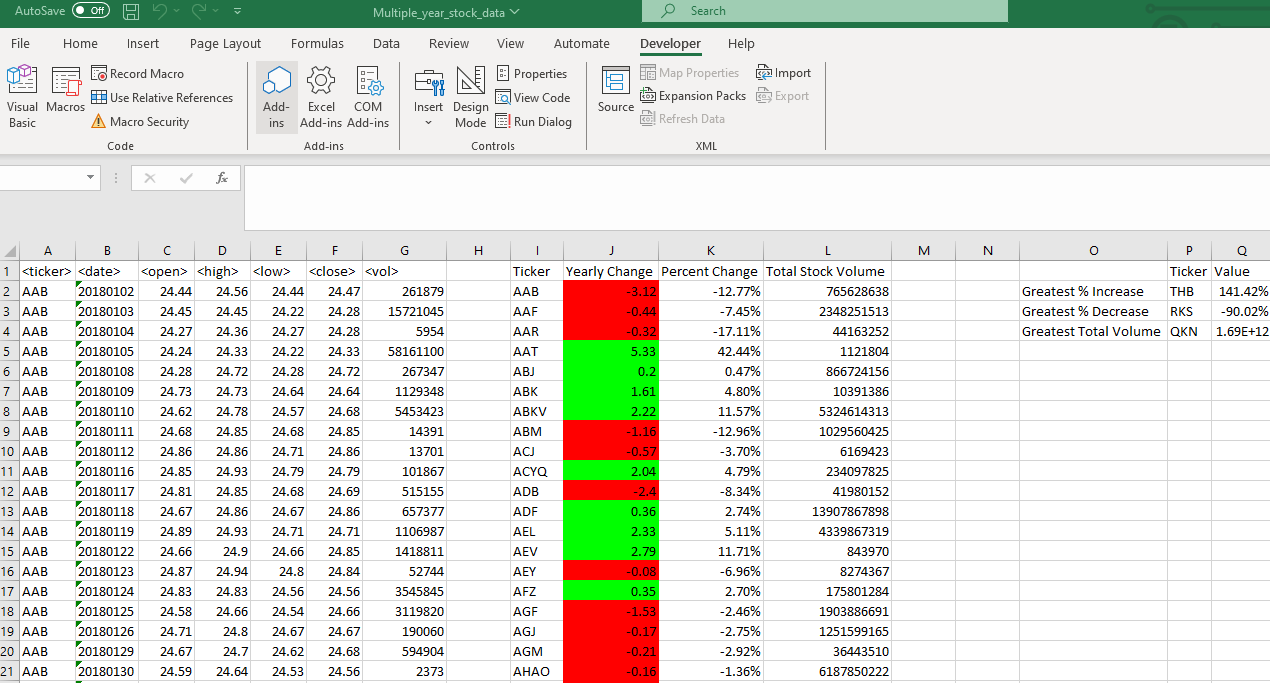
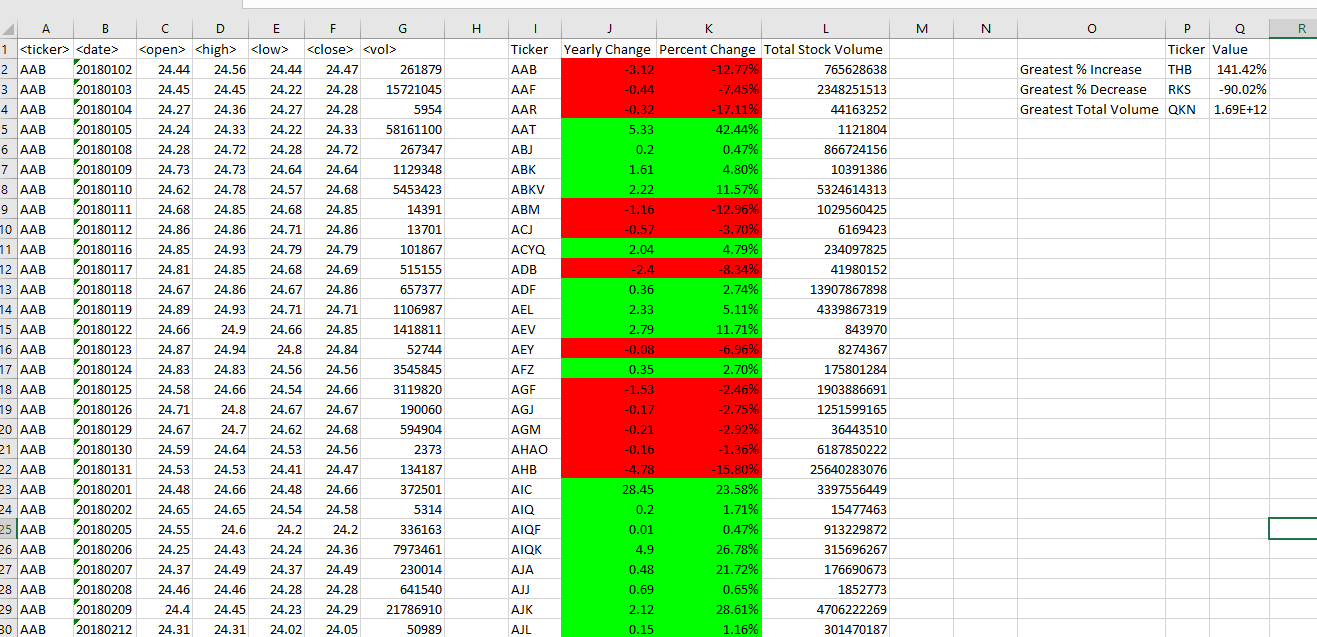
conditional formatting on percent change

diff --git a/README.md b/README.md
@@ -1,6 +1,9 @@
 # VBA-challenge
 
 Authored by Rachel Woodill
+#--------------------------------------------------
+References:
+	how to format and general ideas - https://github.com/DataTell/VBA-Challenge/blob/master/VBAStocks/VBAStocksScript.bas
 
 #--------------------------------------------------
 
@@ -41,4 +44,4 @@ NOTE
 Other Considerations
 Use the sheet alphabetical_testing.xlsx while developing your code. This dataset is smaller and will allow you to test faster. Your code should run on this file in under 3 to 5 minutes.
 
-Make sure that the script acts the same on every sheet. The joy of VBA is that it takes the tediousness out of repetitive tasks with the click of a button.
+	x Make sure that the script acts the same on every sheet. The joy of VBA is that it takes the tediousness out of repetitive tasks with the click of a button.
